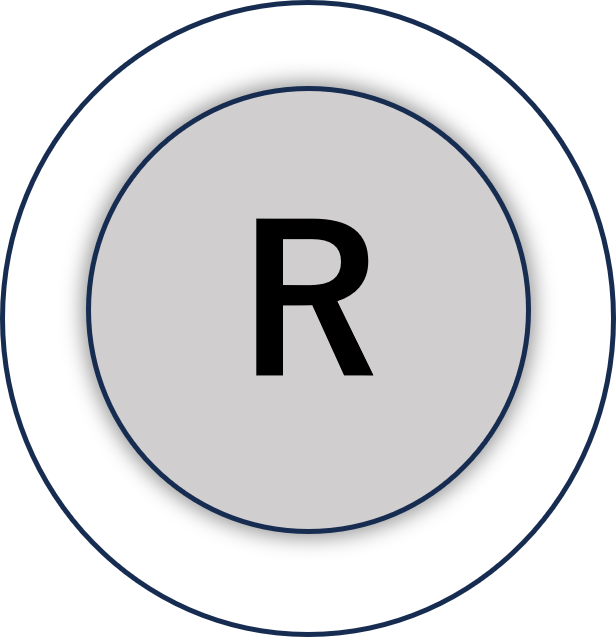
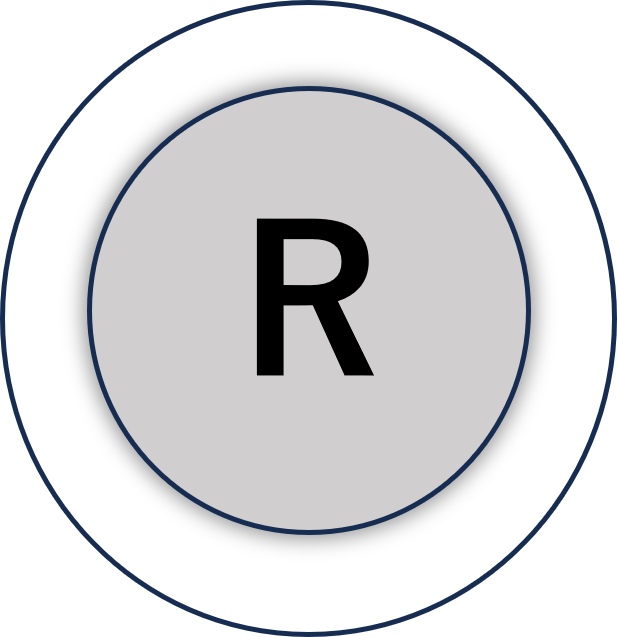
プレイシーンに、操作説明を表示した。 タイトルシーン、リザルトシーンでも、UIの操作説明を表示した。 また、メニュー項目の制御をPanelManager::UpdatePanelで行うよう変更。

diff --git a/Source/TitleScene.cpp b/Source/TitleScene.cpp
@@ -9,6 +9,8 @@ namespace
 {
 	// 118,90 , 565,100
 	ImageHandle hTitleImage;
+	ImageHandle hLeftStickImg;
+	ImageHandle hEastButtonImg;
 	ImageHandle hBackgroundImage;
 	FBXModelHandle hModel;
 	RectF draw { 118, 90, 565, 100 };
@@ -27,6 +29,8 @@ void TitleScene::Initialize()
 	Game::System<SceneSystem>().GetActiveScene()->RegisterGameObject(pCamera);
 	hTitleImage		 = Image::Load("Image/TitleImage.png");
 	hBackgroundImage = Image::Load("Image/Black.png");
+	hEastButtonImg	 = Image::Load("Image/EastButtonPush.png");
+	hLeftStickImg	 = Image::Load("Image/LeftStick.png");
 
 	CameraHandleInScene hCamera = RegisterCameraGameObject(pCamera);
 	WinCtxRes::Get<CameraResource>(WindowContext::FIRST).SetHCamera(hCamera);
@@ -44,27 +48,19 @@ void TitleScene::Initialize()
 
 void TitleScene::Update()
 {
-	if (InputUtil::GetKeyDown(KeyCode::DOWN) ||
-		InputUtil::GetStickDown(mtgb::Axis::Y, StickType::LEFT, StickDirection::Positive))
-	{
-		panelManager_.MoveForcusBackward();
-	}
-	if (InputUtil::GetKeyDown(KeyCode::UP) ||
-		InputUtil::GetStickDown(mtgb::Axis::Y, StickType::LEFT, StickDirection::Negative))
-	{
-		panelManager_.MoveForcusForward();
-	}
-	if (InputUtil::GetKeyDown(KeyCode::ENTER) || InputUtil::GetGamePadDown(PadCode::CIRCLE))
-	{
-		panelManager_.PressCurrentPanel();
-	}
+	panelManager_.UpdatePanel();
 }
 
 void TitleScene::Draw() const
 {
 	Draw::Image(hTitleImage, draw);
-	Draw::Image(hBackgroundImage, textDrawRect, mtgb::UIParams {}, mtgb::Color(0, 0, 0, 90));
-	Draw::ImmediateText("push P Key to start game...", textDrawRect);
+	Draw::Image(hBackgroundImage, { 50, 550, 200, 50 });
+	Draw::Image(hLeftStickImg, { 50, 550, 50, 50 });
+	Draw::ImmediateTextW(L"項目切り替え", { 80, 550, 200, 50 },24);
+
+	Draw::Image(hBackgroundImage, { 500, 550, 150, 50 });
+	Draw::Image(hEastButtonImg, { 500, 550, 50, 50 });
+	Draw::ImmediateTextW(L"決定", { 550, 550, 100, 50 });
 }
 
 void TitleScene::End() {}
@@ -89,7 +85,7 @@ void TitleScene::CreatePanel()
 			}
 		);
 		pItem1->SetText("Start Game");
-		pItem1->SetRect(draw);
+		pItem1->SetRect({ 290, 360, 220, 60 });
 
 		MenuItem* pItem2 = pCurrScene->Instantiate<MenuItem>();
 		pItem2->SetOnPressed(
@@ -104,7 +100,7 @@ void TitleScene::CreatePanel()
 			}
 		);
 		pItem2->SetText("How to Play");
-		pItem2->SetRect({ 118, 500, 565, 100 });
+		pItem2->SetRect({ 290, 490, 220, 60 });
 
 		Panel* pPanel = pCurrScene->Instantiate<Panel>();
 		pPanel->AddMenuItem(pItem1);

diff --git a/Source/ResultScene.cpp b/Source/ResultScene.cpp
@@ -1,14 +1,14 @@
 #include "stdafx.h"
 #include "ResultScene.h"
-#include "../Source/TitleScene.h"
-#include "../Source/SkySphere.h"
-
-#include "../Source/StageManager.h"
+#include "TitleScene.h"
+#include "SkySphere.h"
+#include "StageManager.h"
 namespace
 {
 	// 118,90 , 565,100
 	ImageHandle hTitleImage;
 	ImageHandle hBackgroundImage;
+	ImageHandle hEastButtonImg;
 	RectF draw { 118, 90, 565, 100 };
 	RectF textDrawRect { 118, 450, 565, 80 };
 	UIParams params { .depth = 0, .layerFlag = AllLayer() };
@@ -52,6 +52,7 @@ void ResultScene::Initialize()
 		json		= mtgb::Game::System<StageManager>().GetStageJson(StageID::STAGE_GAME_OVER_SCENE);
 	}
 	hBackgroundImage = Image::Load("Image/Black.png");
+	hEastButtonImg	 = Image::Load("Image/EastButtonPush.png");
 
 	if (json.has_value())
 	{
@@ -60,21 +61,19 @@ void ResultScene::Initialize()
 	}
 
 	Instantiate<mtgb::SkySphere>();
+
+	CreatePanel();
 }
 
 void ResultScene::Update()
 {
-	if (InputUtil::GetKeyDown(KeyCode::P))
-	{
-		Game::System<SceneSystem>().Move<TitleScene>();
-	}
+	panelManager_.UpdatePanel();
 }
 
 void ResultScene::Draw() const
 {
 	Draw::Image(hTitleImage, draw);
 	Draw::Image(hBackgroundImage, textDrawRect, mtgb::UIParams {}, mtgb::Color(0, 0, 0, 90));
-	Draw::ImmediateText("push P Key to return title...", textDrawRect);
 
 	Draw::Image(hBackgroundImage, mtgb::RectF { 120, 305, 310, 40 }, mtgb::UIParams {}, mtgb::Color(0, 0, 0, 90));
 
@@ -85,3 +84,23 @@ void ResultScene::Draw() const
 }
 
 void ResultScene::End() {}
+
+void ResultScene::CreatePanel() 
+{
+	GameScene* pCurrScene = Game::System<SceneSystem>().GetActiveScene();
+
+	MenuItem* pItem = pCurrScene->Instantiate<MenuItem>();
+	pItem->SetOnPressed(
+		[]()
+		{
+			Game::System<SceneSystem>().Move<TitleScene>();
+		}
+	);
+	pItem->SetText("Return To Title");
+	pItem->SetRect({ 290, 490, 220, 60 });
+	Panel* pPanel = pCurrScene->Instantiate<Panel>();
+	pPanel->AddMenuItem(pItem);
+
+	panelManager_.AddPanel("ResultMenu", pPanel);
+	panelManager_.EnablePanel("ResultMenu");
+}

diff --git a/Source/Scenes/SampleScene.cpp b/Source/Scenes/SampleScene.cpp
@@ -43,6 +43,8 @@ void SampleScene::Initialize()
 
 	hBackgroundImg = mtgb::Image::Load("Image/Black.png");
 	hLeftStickImg  = mtgb::Image::Load("Image/LeftStick.png");
+	hSouthButtonPushImg = mtgb::Image::Load("Image/SouthButtonPush.png");
+	hRightStickImg = mtgb::Image::Load("Image/RightStick.png");
 }
 
 void SampleScene::Update()
@@ -60,6 +62,14 @@ void SampleScene::Draw() const
 	mtgb::Draw::Image(hBackgroundImg, { 50, 550, 150, 50 });
 	mtgb::Draw::Image(hLeftStickImg, { 50, 550, 50, 50 });
 	mtgb::Draw::ImmediateTextW(L"移動", { 100, 550, 100, 50 });
+
+	mtgb::Draw::Image(hBackgroundImg, { 250, 550, 200, 50 });
+	mtgb::Draw::Image(hSouthButtonPushImg, { 250, 550, 50, 50 });
+	mtgb::Draw::ImmediateTextW(L"ジャンプ", { 300, 550, 150, 50 });
+
+	mtgb::Draw::Image(hBackgroundImg, { 500, 550, 200, 50 });
+	mtgb::Draw::Image(hRightStickImg, { 500, 550, 50, 50 });
+	mtgb::Draw::ImmediateTextW(L"視点移動", { 550, 550, 150, 50 });
 }
 
 void SampleScene::End() {}

diff --git a/Source/PanelManager.cpp b/Source/PanelManager.cpp
@@ -1,5 +1,5 @@
 #include "PanelManager.h"
-
+#include <InputData.h>
 PanelManager::PanelManager() 
 	: pCurrPanel_ {nullptr}
 {
@@ -57,4 +57,23 @@ void PanelManager::MoveForcusForward()
 void PanelManager::PressCurrentPanel()
 {
 	pCurrPanel_->Press();
+}
+
+void PanelManager::UpdatePanel() 
+{
+	using namespace mtgb;
+	if (InputUtil::GetKeyDown(KeyCode::DOWN) ||
+		InputUtil::GetStickDown(mtgb::Axis::Y, StickType::LEFT, StickDirection::Positive))
+	{
+		MoveForcusBackward();
+	}
+	if (InputUtil::GetKeyDown(KeyCode::UP) ||
+		InputUtil::GetStickDown(mtgb::Axis::Y, StickType::LEFT, StickDirection::Negative))
+	{
+		MoveForcusForward();
+	}
+	if (InputUtil::GetKeyDown(KeyCode::ENTER) || InputUtil::GetGamePadDown(PadCode::CIRCLE))
+	{
+		PressCurrentPanel();
+	}
 }

diff --git a/Source/ResultScene.h b/Source/ResultScene.h
@@ -1,5 +1,6 @@
 #pragma once
 #include "GameScene.h"
+#include "PanelManager.h"
 
 class ResultScene : public mtgb::GameScene
 {
@@ -11,4 +12,8 @@ class ResultScene : public mtgb::GameScene
 	void Update() override;
 	void Draw() const override;
 	void End() override;
+
+  private:
+	void CreatePanel();
+	PanelManager panelManager_;
 };

diff --git a/Source/PanelManager.h b/Source/PanelManager.h
@@ -12,6 +12,7 @@ class PanelManager
 	void MoveForcusForward();
 	void MoveForcusBackward();
 	void PressCurrentPanel();
+	void UpdatePanel();
   private:
 	std::unordered_map<std::string, Panel*, mtgb::TransparentStringHash, mtgb::TransparentStringEq> panelMap_;
 	Panel* pCurrPanel_;
